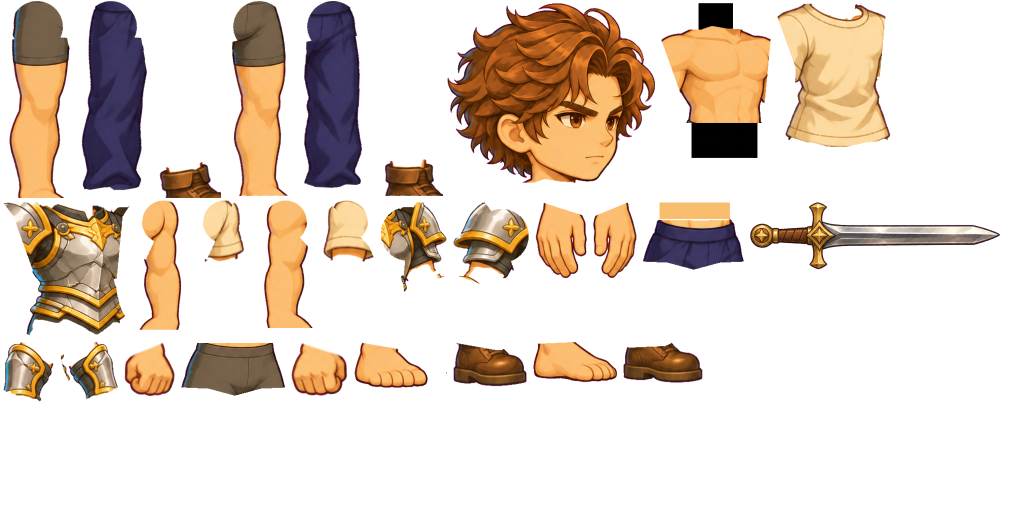
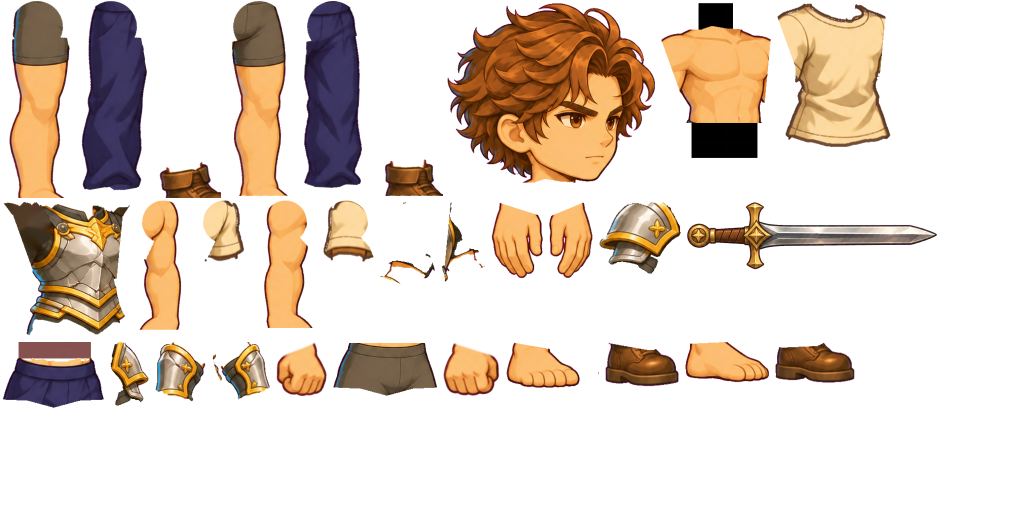
V4 lab, BASE-01 acceptance fixes: one shoulder plate, no skin halo, firmer light garments, unarmed polish
- Rigid tops: each shoulder plate is its own piece (the plates the outlines enclose
  that reach the shoulder and lie on the upper arm), on its own slot turning 0.55 of
  the arm; the chest is carried on under it (inpainted), so the plate exists once in
  every pose. The far plate is drawn over the chest's far edge.
- Every item: skin-coloured pixels along its edge that match the master's skin
  there are body, not item (boot collars, waistbands, sleeve ends).
- Light garments (tops and trousers, L* > 72): a crisp warm dark outline 7 master px
  wide and slightly deeper fold shadows, for contrast on pale floors at 150 px.
- Unarmed jump: the near fist stays low, forward and below the chin. Unarmed punch:
  the art director's three poses (guard and load, extension at upper-chest height
  with the hips and the front foot, straight return to guard; the foot back home).
- Regression R7 (the far fist never shows between the legs) and R8 (a planted foot
  stays planted through every cross-fade, slide 0.76 px, sinking 0.98 px at 150 px).
- The reel adds an unarmed take.

Claude-Session: https://claude.ai/code/session_01AdjxSzUCV4VRbquShPanH9

diff --git a/src/v4/base01/anims.ts b/src/v4/base01/anims.ts
@@ -197,33 +197,36 @@ const RUN_BARE = build('run_bare', RD, true, [...RUN_ORDER, 'contact' as Phase].
 }), { swaps: FISTS, order: [] });
 
 // The jump: the jump's own legs and body; both arms swing back in the crouch and forward with the takeoff, the far
-// arm reaching up, the near one staying below the chin (in this view it passes in front of the face); they settle
-// for the landing. From and back to the unarmed stand.
+// arm reaching up; the near one stays low, its fist forward and below the chin with a clear gap to the face (in this
+// view the near arm passes in front of the face, the identity anchor at gameplay size). From and back to the stand.
 const STAND_BARE: Pose = { t: 0, hip: [-0.006, 0.008], chest: 1, head: -1, legs: { B: on(-0.1), F: on(0.095) }, arms: { B: [102, 99, 99], F: [80, 84, 86] } };
 const JUMP_BARE = build('jump_bare', 0.95, false, [
   STAND_BARE,
   { t: 0.07, e: 'in', hip: [0, 0.07], chest: 20, head: -9, legs: { B: on(-0.1), F: on(0.095) }, arms: { B: [118, 100, 104], F: [112, 92, 96] } },
-  { t: 0.12, e: 'out', hip: [0.012, -0.035], chest: 4, head: -1, legs: { B: fromHip(-0.04, 0.312, 44), F: fromHip(0.012, 0.306, 34) }, arms: { B: [40, 0, 6], F: [-28, -58, -52] } },
-  { t: 0.28, hip: [0.01, -0.005], chest: 7, head: -3, legs: { B: fromHip(-0.08, 0.27, 34), F: fromHip(0.1, 0.15, 6) }, arms: { B: [52, 14, 20], F: [-8, -35, -30] } },
-  { t: 0.42, hip: [0.01, -0.005], chest: 6, head: -3, legs: { B: fromHip(-0.07, 0.28, 30), F: fromHip(0.11, 0.16, 4) }, arms: { B: [58, 24, 30], F: [8, -22, -16] } },
-  { t: 0.6, e: 'in', hip: [0.005, -0.012], chest: 5, head: -3, legs: { B: fromHip(-0.045, 0.3, 12), F: fromHip(0.05, 0.302, 2) }, arms: { B: [66, 36, 42], F: [30, 0, 6] } },
-  { t: 0.7, e: 'out', hip: [0, 0.012], chest: 10, head: -4, legs: { B: on(-0.1), F: on(0.095) }, arms: { B: [80, 56, 62], F: [62, 36, 42] } },
+  { t: 0.12, e: 'out', hip: [0.012, -0.035], chest: 4, head: -1, legs: { B: fromHip(-0.04, 0.312, 44), F: fromHip(0.012, 0.306, 34) }, arms: { B: [56, 18, 24], F: [-28, -58, -52] } },
+  { t: 0.28, hip: [0.01, -0.005], chest: 7, head: -3, legs: { B: fromHip(-0.08, 0.27, 34), F: fromHip(0.1, 0.15, 6) }, arms: { B: [62, 26, 32], F: [-8, -35, -30] } },
+  { t: 0.42, hip: [0.01, -0.005], chest: 6, head: -3, legs: { B: fromHip(-0.07, 0.28, 30), F: fromHip(0.11, 0.16, 4) }, arms: { B: [66, 32, 38], F: [8, -22, -16] } },
+  { t: 0.6, e: 'in', hip: [0.005, -0.012], chest: 5, head: -3, legs: { B: fromHip(-0.045, 0.3, 12), F: fromHip(0.05, 0.302, 2) }, arms: { B: [72, 42, 48], F: [30, 0, 6] } },
+  { t: 0.7, e: 'out', hip: [0, 0.012], chest: 10, head: -4, legs: { B: on(-0.1), F: on(0.095) }, arms: { B: [82, 58, 64], F: [62, 36, 42] } },
   { t: 0.79, e: 'out', hip: [0, 0.085], chest: 22, head: -10, legs: { B: on(-0.1), F: on(0.095) }, arms: { B: [110, 94, 98], F: [100, 80, 84] } },
   { ...STAND_BARE, t: 0.95 },
 ], { swaps: BARE, marks: { takeoff: 0, air: 0.12, land: 0.7, end: 0.95 } });
 
-// The punch, the light slash's body on the same marks: a straight punch with the lead (far) fist, which in this view
-// reaches clear of the body (the near arm would cross the face). The body loads (hips back, the lead fist chambered at
-// the waist, the near fist up in front of the chest, below the chin), the hips start it (the front foot steps in),
-// the lead arm drives straight out at shoulder height, then the body regains the stand.
+// The punch, on the light slash's marks: a straight punch with the lead (far) fist, which in this view reaches clear of
+// the body (the near arm would cross the face). Three poses (the art director's): guard and load (to 0.06: both fists
+// come up, the near one in front of the chest, the lead shoulder draws back a little), extension and impact (0.06 to
+// 0.16: the lead fist drives straight out at upper-chest height, the shoulder follows, the hips turn and the front
+// foot takes the weight), return (to 0.3: the fist comes straight back into the guard; the front foot steps back to
+// the stand by 0.4). No big wind-up: faster and more direct than the slash.
+const GUARD_BARE: Record<Side, Arm> = { B: [58, -22, -18], F: [100, -60, -56] };
 const ATTACK_BARE = build('attack_bare', 0.4, false, [
   STAND_BARE,
-  { t: 0.07, e: 'out', hip: [-0.028, 0.026], hipR: -6, chest: -6, head: 2, legs: { B: on(-0.1), F: on(0.095, -8, 0.006) }, arms: { B: [58, -22, -18], F: [150, 20, 24] } },
-  { t: 0.105, e: 'in', hip: [0.004, 0.03], hipR: -1, chest: 4, head: -1, legs: { B: on(-0.1, 10, 0.004), F: on(0.155, -10, 0.025) }, arms: { B: [62, -16, -12], F: [60, 10, 14] } },
-  { t: 0.14, e: 'linear', hip: [0.044, 0.04], hipR: 6, chest: 15, head: -6, legs: { B: on(-0.1, 20, 0.012), F: on(0.205) }, arms: { B: [66, -10, -6], F: [-4, -4, -4] } },
-  { t: 0.18, e: 'out', hip: [0.05, 0.044], hipR: 7, chest: 17, head: -7, legs: { B: on(-0.1, 22, 0.014), F: on(0.205) }, arms: { B: [66, -10, -6], F: [-2, -2, -2] } },
-  { t: 0.25, hip: [0.046, 0.042], hipR: 6, chest: 15, head: -6, legs: { B: on(-0.1, 20, 0.012), F: on(0.205) }, arms: { B: [80, 20, 26], F: [30, 20, 24] } },
-  { ...STAND_BARE, t: 0.4 },
+  { t: 0.06, e: 'out', hip: [-0.02, 0.02], hipR: -4, chest: -4, head: 1, legs: { B: on(-0.1), F: on(0.095, -6, 0.004) }, arms: GUARD_BARE },
+  { t: 0.12, e: 'out', hip: [0.044, 0.04], hipR: 6, chest: 14, head: -5, legs: { B: on(-0.1, 20, 0.012), F: on(0.205) }, arms: { B: [64, -14, -10], F: [6, 4, 4] } },
+  { t: 0.16, hip: [0.048, 0.042], hipR: 7, chest: 15, head: -6, legs: { B: on(-0.1, 22, 0.014), F: on(0.205) }, arms: { B: [64, -14, -10], F: [8, 6, 6] } },
+  { t: 0.3, e: 'inout', hip: [0.012, 0.024], hipR: 1, chest: 4, head: -2, legs: { B: on(-0.1, 6, 0.004), F: on(0.135, -6, 0.014) }, arms: GUARD_BARE },
+  // the front foot is back where the stand has it (a cross-fade into the stand never slides a planted foot)
+  { t: 0.4, hip: [-0.004, 0.012], chest: 2, head: -1, legs: { B: on(-0.1), F: on(0.095) }, arms: GUARD_BARE },
 ], { swaps: FISTS, marks: { startup: 0, active: 0.14, recovery: 0.25, end: 0.4 } });
 
 export const ANIMS_B01: Record<string, AnimDef> = {

diff --git a/src/v4/lab/testsB01.ts b/src/v4/lab/testsB01.ts
@@ -3,7 +3,8 @@
 // stays in one piece (each joint where its parent puts it) in every sampled frame of every animation; R3: a held
 // weapon never leaves the fist (the grip socket rides the hand at its fixed offset); R4: the cross-fade between any two
 // animations stays finite; R5: rapid, interrupted changes of state never pop; R6: with no weapon in hand every state
-// plays its unarmed animation.
+// plays its unarmed animation; R7: the far fist never shows between the legs; R8: a planted foot stays planted
+// through a cross-fade.
 import type { AnimDef } from '../rig/types';
 import { RigPose } from '../rig/pose';
 import type { WardrobeSlot } from '../wardrobe/types';
@@ -141,5 +142,65 @@ export async function runTestsB01(scene: LabScene, progress: (msg: string) => vo
   }
   const fb = bare ? runPlan(true, planFor(bare)) : { atSwitch: 0, inside: 0 };
   out.push({ id: 'R6', name: 'No weapon in hand: every state plays its unarmed animation, on the same marks, no pop at changes', pass: wrong.length === 0 && fb.atSwitch <= fb.inside + 2, detail: wrong.length ? wrong.slice(0, 4).join(' | ') : `${MIXES.length} mixes pick the right set; unarmed changes: largest turn ${fb.atSwitch.toFixed(1)}°, its own fastest ${fb.inside.toFixed(1)}°` });
+  // R7: the far fist (drawn behind the body) never shows in the gap between the legs: below the crotch and between
+  // the two legs' edges, in any frame of any animation, armed or not
+  progress('R7 far fist');
+  const U = pose.rig.B, px150 = 150 / U;
+  const ix = (n: string) => pose.index.get(n)!;
+  const org = (i: number): [number, number] => [st.world[i * 6 + 4], st.world[i * 6 + 5]];
+  const all = [...new Set([...Object.values(A.anims), ...Object.values(bare ?? {})])] as AnimDef[];
+  let gapFrames = 0, gapWorst = '', sampled = 0;
+  const legX = (s: 'B' | 'F', y: number): number | null => {
+    const P = [org(ix(`thigh_${s}`)), org(ix(`shin_${s}`)), org(ix(`foot_${s}`))];
+    for (let k = 0; k < 2; k++) {
+      const [x0, y0] = P[k], [x1, y1] = P[k + 1];
+      if ((y - y0) * (y - y1) <= 0 && y1 !== y0) return x0 + ((y - y0) / (y1 - y0)) * (x1 - x0);
+    }
+    return null;
+  };
+  const LEG_HALF = 0.06 * U, FIST = 0.035 * U;
+  for (const a of all) {
+    for (let t = 0; t <= a.dur + 1e-9; t += 1 / 60) {
+      pose.evaluate(a, t, st); sampled++;
+      const h = ix('hand_F'), hl = pose.length(st, h) * U * 0.5;
+      const fx = st.world[h * 6 + 4] + st.world[h * 6] * hl, fy = st.world[h * 6 + 5] + st.world[h * 6 + 1] * hl;
+      const hip = ix('hip'), crotchY = st.world[hip * 6 + 5] + 0.045 * U;
+      if (fy - FIST < crotchY) continue;
+      const xb = legX('B', fy), xf = legX('F', fy);
+      if (xb === null || xf === null) continue;
+      const lo = Math.min(xb, xf) + LEG_HALF, hi = Math.max(xb, xf) - LEG_HALF;
+      if (hi - lo > 2 * FIST && fx > lo + FIST && fx < hi - FIST) { gapFrames++; if (!gapWorst) gapWorst = `${a.name} ${t.toFixed(2)} s`; }
+    }
+    await yieldFrame();
+  }
+  out.push({ id: 'R7', name: 'The far fist never shows between the legs', pass: gapFrames === 0, detail: gapFrames ? `${gapFrames} frames, first: ${gapWorst}` : `${sampled} frames of ${all.length} animations` });
+  // R8: a foot planted in both poses of a change stays planted through the cross-fade (no slide, no sinking): the
+  // game's changes between grounded states, armed and unarmed
+  progress('R8 planted feet');
+  const ground = (s: 'B' | 'F') => org(ix(`foot_${s}`));
+  const sets = [A.anims, ...(bare ? [bare] : [])] as Record<string, AnimDef>[];
+  let slide = 0, sink = 0, checked = 0;
+  for (const S2 of sets) {
+    const tr: [AnimDef, number, AnimDef, number][] = [
+      [S2.idle, 0, S2.attack, 0], [S2.idle, S2.idle.dur / 2, S2.attack, 0], [S2.attack, S2.attack.dur, S2.idle, 0],
+      [S2.jump, S2.jump.dur, S2.idle, 0], [S2.idle, S2.idle.dur / 2, S2.jump, 0], [S2.attack, S2.attack.dur, S2.attack, 0],
+    ];
+    for (const [a, ta, b, tb] of tr) {
+      const snap = pose.localValues(a, ta);
+      pose.evaluate(a, ta, st); const fa = { B: ground('B'), F: ground('F') };
+      pose.evaluate(b, tb + 0.09, st); const fb2 = { B: ground('B'), F: ground('F') };
+      for (const s of ['B', 'F'] as const) {
+        if (Math.abs(fa[s][0] - fb2[s][0]) > 0.01 * U || Math.abs(fa[s][1] - fb2[s][1]) > 0.01 * U) continue; // moves by design
+        checked++;
+        for (let k = 0; k <= 9; k++) {
+          const w = k / 9, e = 1 - (1 - w) * (1 - w);
+          pose.evaluate(b, tb + w * 0.09, st, undefined, { v: snap, w: e });
+          const g = ground(s);
+          slide = Math.max(slide, Math.abs(g[0] - fa[s][0])); sink = Math.max(sink, g[1] - Math.max(fa[s][1], fb2[s][1]));
+        }
+      }
+    }
+  }
+  out.push({ id: 'R8', name: 'A planted foot stays planted through every cross-fade', pass: slide * px150 < 1 && sink * px150 < 1, detail: `${checked} planted feet in the game's changes between grounded states: largest slide ${(slide * px150).toFixed(2)} px, sinking ${(Math.max(0, sink) * px150).toFixed(2)} px at gameplay size (B = 150 px)` });
   return out;
 }

diff --git a/src/v4/base01/rig.ts b/src/v4/base01/rig.ts
@@ -46,13 +46,18 @@ const limb = (s: 'B' | 'F', kind: 'arm' | 'leg') => {
   const L = LIMB[`${kind}_${s}`];
   return { bones: (kind === 'arm' ? [`uparm_${s}`, `forearm_${s}`] : [`thigh_${s}`, `shin_${s}`]) as [string, string], top: L.top, bottom: L.bottom, bend: L.bend };
 };
+// a shoulder plate: one rigid piece on the shoulder joint, turning a little over half as far as the upper arm (it rides
+// the shoulder, the arm moves under it)
+const pauldron = (s: 'B' | 'F', group: string): SlotDef => slot(`arm_${s}.pauldron`, `uparm_${s}`, group, 'top', { blend: 0.55 });
 // an arm: the skin strip, the sleeve strip over it, the held item, the hand in front of the item (a fist round a handle)
 const arm = (s: 'B' | 'F', group: string, grip: string): SlotDef[] => [
   slot(`arm_${s}.skin`, `uparm_${s}`, group, 'body', { limb: limb(s, 'arm') }),
   slot(`arm_${s}.sleeve`, `uparm_${s}`, group, 'top', { limb: limb(s, 'arm') }),
   // rigid plates (armor): the upper one turns with the upper arm, the lower one with the forearm; neither bends
-  slot(`arm_${s}.plateU`, `uparm_${s}`, group, 'top', { blend: 0.75 }),
+  slot(`arm_${s}.plateU`, `uparm_${s}`, group, 'top'),
   slot(`arm_${s}.plateL`, `forearm_${s}`, group, 'top'),
+  // the near shoulder plate over the arm's pieces (the far one is drawn over the chest, see SLOTS)
+  ...(s === 'B' ? [pauldron('B', group)] : []),
   slot(grip, grip, group, 'weapon'),
   slot(`hand_${s}.skin`, `hand_${s}`, group, 'body', { channel: `hand${s}` }),
 ];
@@ -75,6 +80,8 @@ const SLOTS: SlotDef[] = [
   // top over everything (an untucked hem)
   slot('torso.skin', 'chest', 'torso', 'body'), slot('pelvis.skin', 'hip', 'torso', 'body'),
   slot('pelvis.cloth', 'hip', 'torso', 'bottom'), slot('torso.cloth', 'chest', 'torso', 'top'),
+  // the far shoulder plate sits on the chest's far edge: over the chest, though its arm is behind it
+  pauldron('F', 'torso'),
   slot('head.skin', 'head', 'head', 'body'), slot('head.hat', 'head', 'head', 'head'),
   ...arm('B', 'armB', 'weapon'),
 ];

diff --git a/src/v4/base01/catalog.ts b/src/v4/base01/catalog.ts
@@ -13,7 +13,10 @@ export const B01_TEXTURE = 'v4base01';
 /** The rig slot a piece of an item takes: by the item's wardrobe slot and the template part it was cut to. */
 export const PIECE_SLOT: Partial<Record<WardrobeSlot, Record<string, string>>> = {
   body: { head: 'head.skin', torso: 'torso.skin', pelvis: 'pelvis.skin', arm_B: 'arm_B.skin', arm_F: 'arm_F.skin', leg_B: 'leg_B.skin', leg_F: 'leg_F.skin', foot_B: 'foot_B.skin', foot_F: 'foot_F.skin' },
-  top: { torso: 'torso.cloth', arm_B: 'arm_B.sleeve', arm_F: 'arm_F.sleeve', uparm_B: 'arm_B.plateU', forearm_B: 'arm_B.plateL', uparm_F: 'arm_F.plateU', forearm_F: 'arm_F.plateL' },
+  top: {
+    torso: 'torso.cloth', arm_B: 'arm_B.sleeve', arm_F: 'arm_F.sleeve', uparm_B: 'arm_B.plateU', forearm_B: 'arm_B.plateL', uparm_F: 'arm_F.plateU', forearm_F: 'arm_F.plateL',
+    pauldron_B: 'arm_B.pauldron', pauldron_F: 'arm_F.pauldron',
+  },
   bottom: { pelvis: 'pelvis.cloth', leg_B: 'leg_B.cloth', leg_F: 'leg_F.cloth' },
   shoes: { foot_B: 'foot_B.shoe', foot_F: 'foot_F.shoe', leg_B: 'leg_B.shaft', leg_F: 'leg_F.shaft' },
   head: { head: 'head.hat' },

diff --git a/tools/v4/base01/build.py b/tools/v4/base01/build.py
@@ -192,14 +192,61 @@ def fill_under(layer, region, known):
     return tl.inpaint_rgba(layer, known, region, radius=6)
 
 
+def elbow_side(s):
+    """Signed distance past the elbow, square to the bend's bisector (negative: the upper arm's side)."""
+    a1 = unit(J[f'shoulder_{s}'], J[f'elbow_{s}']); a2 = unit(J[f'elbow_{s}'], J[f'wrist_{s}'])
+    nb = (a1 + a2) / np.linalg.norm(a1 + a2)
+    return beyond(J[f'elbow_{s}'], nb)
+
+
+def pauldrons(alpha, fg, L):
+    """A rigid top's shoulder plates, each one whole piece: the plates of the picture are the regions its dark outlines
+    enclose; a shoulder plate is one that reaches the shoulder joint and lies a quarter or more on the upper arm (the
+    chest plate and the collar lie on the chest). Each plate takes the outline round it (the outline pixels nearest
+    to it). Rule-based, so every rigid top gets the same treatment."""
+    item = alpha > 0.5
+    lum = (fg[..., :3] * 255.0) @ np.array([0.299, 0.587, 0.114])
+    outline = item & (lum < 75)
+    inter = item & ~outline
+    lab, n = ndimage.label(inter)
+    out = {s: np.zeros(SH, bool) for s in 'BF'}
+    if not n: return out
+    idx = np.arange(1, n + 1)
+    total = ndimage.sum(inter, lab, idx)
+    dist, (iy, ix) = ndimage.distance_transform_edt(~inter, return_indices=True)
+    near = lab[iy, ix]
+    for s in 'BF':
+        zone = disk(J[f'shoulder_{s}'], 0.06 * BPX)
+        upper = L[f'arm_{s}'] & (elbow_side(s) < 0)
+        in_zone = ndimage.sum(inter & zone, lab, idx)
+        in_arm = ndimage.sum(inter & upper, lab, idx)
+        keep = idx[(total >= 30) & (in_zone > 0) & (in_arm >= 0.25 * total)]
+        if not len(keep): continue
+        m = np.isin(lab, keep)
+        m |= outline & np.isin(near, keep) & (dist <= 5)
+        out[s] = ndimage.binary_fill_holes(m) & item
+    both = out['B'] & out['F']
+    if both.any():  # a plate claimed by both sides goes to the nearer shoulder
+        dB = np.hypot(XX - J['shoulder_B'][0], YY - J['shoulder_B'][1]); dF = np.hypot(XX - J['shoulder_F'][0], YY - J['shoulder_F'][1])
+        out['B'] &= ~(both & (dF < dB)); out['F'] &= ~(both & (dB <= dF))
+    return out
+
+
 def cut_body(prefix, alpha, fg, L, base=True, item_slot=None, rigid=False):
     """The pieces of one figure (the base body, or an item's own pixels) cut by the part map L."""
     made = []
     lay = lambda m: tl.premul(alpha, fg, m.astype(np.float32))
     if L['head'].any() and put_rigid(f'{prefix}/head', lay(L['head']), J['head']): made.append(('head', f'{prefix}/head'))
+    # rigid tops: each shoulder plate is its own piece (drawn once, turning part way with the arm); the chest plate is
+    # carried on under it (inpainted from the chest's own pixels), so a raised arm never shows a second plate nor a hole
+    P = pauldrons(alpha, fg, L) if rigid else {s: np.zeros(SH, bool) for s in 'BF'}
+    PA = P['B'] | P['F']
     # the torso carries on a little under the head (the neck) and under the hips' piece (the belly): a tilted head or
     # a bent waist never opens a gap
-    tl_ = lay(L['torso'])
+    tl_ = lay(L['torso'] & ~PA)
+    if rigid and PA.any():
+        known = L['torso'] & ~PA & (alpha > 0.9)
+        tl_ = fill_under(tl_, PA & (L0['torso'] | L['torso']), known)
     if base:
         neck = (YY > J['head'][1] - 0.035 * BPX) & (YY < J['neck'][1] + 4) & (np.abs(XX - J['neck'][0]) < 0.034 * BPX)
         belly_x = np.where(L['torso'][int(J['waist'][1])])[0]
@@ -221,16 +268,16 @@ def cut_body(prefix, alpha, fg, L, base=True, item_slot=None, rigid=False):
             pl[up, :3] = col; pl[up, 3] = 1.0
     if L['pelvis'].any() and put_rigid(f'{prefix}/pelvis', pl, J['pelvis']): made.append(('pelvis', f'{prefix}/pelvis'))
     for s in 'BF':
-        if rigid and L[f'arm_{s}'].any():
-            # rigid plates: cut at the elbow (square to the bend's bisector), a little overlap each way; the upper plate
-            # turns about the shoulder, the lower about the elbow
-            a1 = unit(J[f'shoulder_{s}'], J[f'elbow_{s}']); a2 = unit(J[f'elbow_{s}'], J[f'wrist_{s}'])
-            nb = (a1 + a2) / np.linalg.norm(a1 + a2)
-            side = beyond(J[f'elbow_{s}'], nb)
-            # the upper plate also carries the shoulder plate's part over the chest (a copy: the chest keeps its own)
-            cap = disk(J[f'shoulder_{s}'], LIMBS[f'arm_{s}']['top'] * BPX * 1.25) & L['torso']
-            up_, lo_ = (L[f'arm_{s}'] | cap) & (side < 4), L[f'arm_{s}'] & (side > -4)
-            if up_.any() and put_rigid(f'{prefix}/uparm_{s}', lay(up_), J[f'shoulder_{s}']): made.append((f'uparm_{s}', f'{prefix}/uparm_{s}'))
+        if rigid and (L[f'arm_{s}'].any() or P[s].any()):
+            # rigid plates: the shoulder plate about the shoulder; the rest of the arm's plates cut at the elbow (square
+            # to the bend's bisector), a little overlap each way: the upper one turns about the shoulder, the lower one
+            # about the elbow
+            side = elbow_side(s)
+            if P[s].any() and put_rigid(f'{prefix}/pauldron_{s}', lay(P[s]), J[f'shoulder_{s}']): made.append((f'pauldron_{s}', f'{prefix}/pauldron_{s}'))
+            up_, lo_ = L[f'arm_{s}'] & ~P[s] & (side < 4), L[f'arm_{s}'] & ~P[s] & (side > -4)
+            # an upper-arm plate under the shoulder plate only when there is one (not a few edge pixels left over)
+            solid = ndimage.binary_opening(up_ & (alpha > 0.5), structure=disk((3, 3), 3)[:7, :7]).sum()
+            if solid > 400 and put_rigid(f'{prefix}/uparm_{s}', lay(up_), J[f'shoulder_{s}']): made.append((f'uparm_{s}', f'{prefix}/uparm_{s}'))
             if lo_.any() and put_rigid(f'{prefix}/forearm_{s}', lay(lo_), J[f'elbow_{s}']): made.append((f'forearm_{s}', f'{prefix}/forearm_{s}'))
         elif L[f'arm_{s}'].any() and put_strip(f'{prefix}/arm_{s}', f'arm_{s}', limb_layer(f'arm_{s}', L[f'arm_{s}'], {'top': L['torso'], 'end': L[f'hand_{s}']}, alpha, fg)):
             made.append((f'arm_{s}', f'{prefix}/arm_{s}'))
@@ -340,6 +387,13 @@ def refine_limbs(al, field):
 
 
 MASTER_RGB = np.asarray(Image.open(os.path.join(HERE, T['master'])).convert('RGB'))
+# the master's skin, as a local colour field (OpenCV Lab: L 0..255, a and b offset by 128): the bare body's opaque,
+# reddish pixels outside the head (not the shorts, not the hair), blurred so every place near skin knows the skin
+# tone around it
+LAB0 = cv2.cvtColor(MASTER_RGB, cv2.COLOR_RGB2LAB).astype(np.float32)
+SKIN0 = M0 & ~L0['head'] & (alpha0 > 0.95) & (LAB0[..., 0] > 100) & (LAB0[..., 1] > 138)
+SKIN0_W = ndimage.gaussian_filter(SKIN0.astype(np.float32), 6)
+SKIN0_LAB = np.dstack([ndimage.gaussian_filter(LAB0[..., c] * SKIN0, 6) for c in range(3)]) / np.maximum(SKIN0_W, 1e-3)[..., None]
 items_spec = json.load(open(os.path.join(HERE, 'items.json')))
 for it in items_spec:
     path = os.path.join(HERE, it['picture'])
@@ -420,6 +474,25 @@ for it in items_spec:
     item = item & ndimage.binary_dilation(body_, structure=disc_, iterations=1)
     item = ndimage.binary_closing(item, iterations=2)
     item = ndimage.binary_fill_holes(item) & region
+    # the skin halo: a boot collar or a waistband drawn over the bare body leaves a few skin-coloured pixels along the
+    # item's edge; near its edge, a pixel whose colour matches the master's skin around it is body, not item
+    edge_band = item & ~ndimage.binary_erosion(item, iterations=6)
+    halo = edge_band & (SKIN0_W > 0.05) & (np.sqrt(((lab_a - SKIN0_LAB) ** 2).sum(2)) < it.get('skin_halo', 16))
+    item &= ~halo
+    item &= ndimage.binary_opening(item, iterations=1) | ~edge_band
+    fg_i = fg_a.astype(np.float32)
+    # a light garment gets a firmer warm outline and deeper folds (it stays apart from pale floors at gameplay size):
+    # its edge band, inside its silhouette, is taken toward a warm dark brown, and its shadow tones are deepened
+    Lm = float(np.median(lab_a[..., 0][item])) if item.any() else 0.0
+    if it['slot'] in ('top', 'bottom') and not it.get('rigid') and Lm > it.get('light_from', 0.72 * 255):
+        bw = it.get('outline_px', 7.0)
+        din = ndimage.distance_transform_edt(ndimage.gaussian_filter(item.astype(np.float32), 2.0) > 0.5)  # a smooth contour
+        t_ = np.clip((bw - din) / 2.0 + 0.5, 0, 1) * item          # a crisp band bw px wide, its inner edge 2 px soft
+        dark = np.array([88, 54, 36], np.float32)
+        fg_i = fg_i * (1 - 0.85 * t_[..., None]) + dark * (0.85 * t_[..., None])
+        # the folds: each shadow tone a little deeper, in proportion to how dark it already is (no new shapes)
+        deep = np.clip((Lm - lab_a[..., 0]) / (0.3 * Lm), 0, 1) * (item & (din > bw))
+        fg_i *= (1 - 0.16 * deep)[..., None]
     wgt = np.minimum(alpha_a, ndimage.gaussian_filter(item.astype(np.float32), 0.7) * 1.0)
     Li = {}
     remap = SLOT_REMAP.get(it['slot'], {})
@@ -427,9 +500,10 @@ for it in items_spec:
         Li[p] = np.zeros(SH, bool)
     for p in allowed:
         Li[remap.get(p, p)] = Li[remap.get(p, p)] | (item & field[p])
-    made = cut_body(it['id'], wgt, fg_a / 255.0, Li, base=False, item_slot=it['slot'], rigid=it.get('rigid', False))
+    made = cut_body(it['id'], wgt, fg_i / 255.0, Li, base=False, item_slot=it['slot'], rigid=it.get('rigid', False))
     ITEMS.append({'id': it['id'], 'slot': it['slot'], 'name': it['name'], 'parts': [{'part': p, 'frame': f} for p, f in made]})
-    Image.fromarray(np.dstack([fg_a, wgt * 255]).clip(0, 255).astype(np.uint8), 'RGBA').save(os.path.join(OUT, f"item_{it['id']}.png"))
+    REPORT[-1].update({'skin_halo_px': int(halo.sum()), 'light_outline': bool(Lm > it.get('light_from', 0.72 * 255)) and it['slot'] in ('top', 'bottom') and not it.get('rigid')})
+    Image.fromarray(np.dstack([fg_i, wgt * 255]).clip(0, 255).astype(np.uint8), 'RGBA').save(os.path.join(OUT, f"item_{it['id']}.png"))
 
 # ------------------------------------------------------------------ write
 meta = {}
